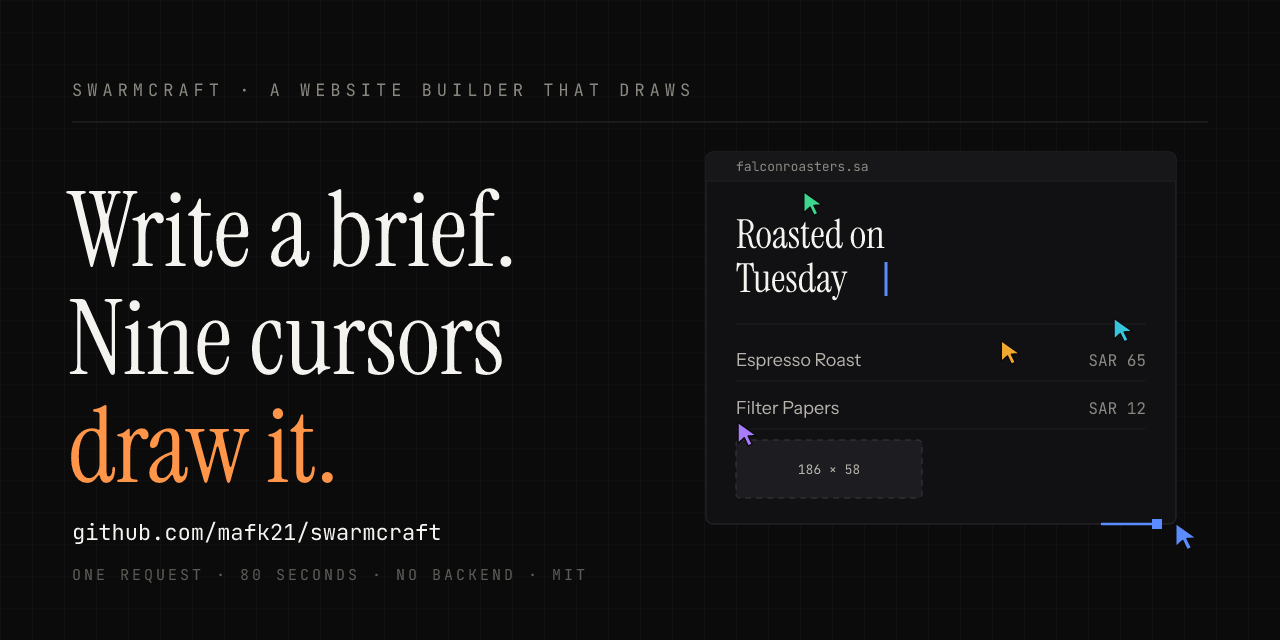
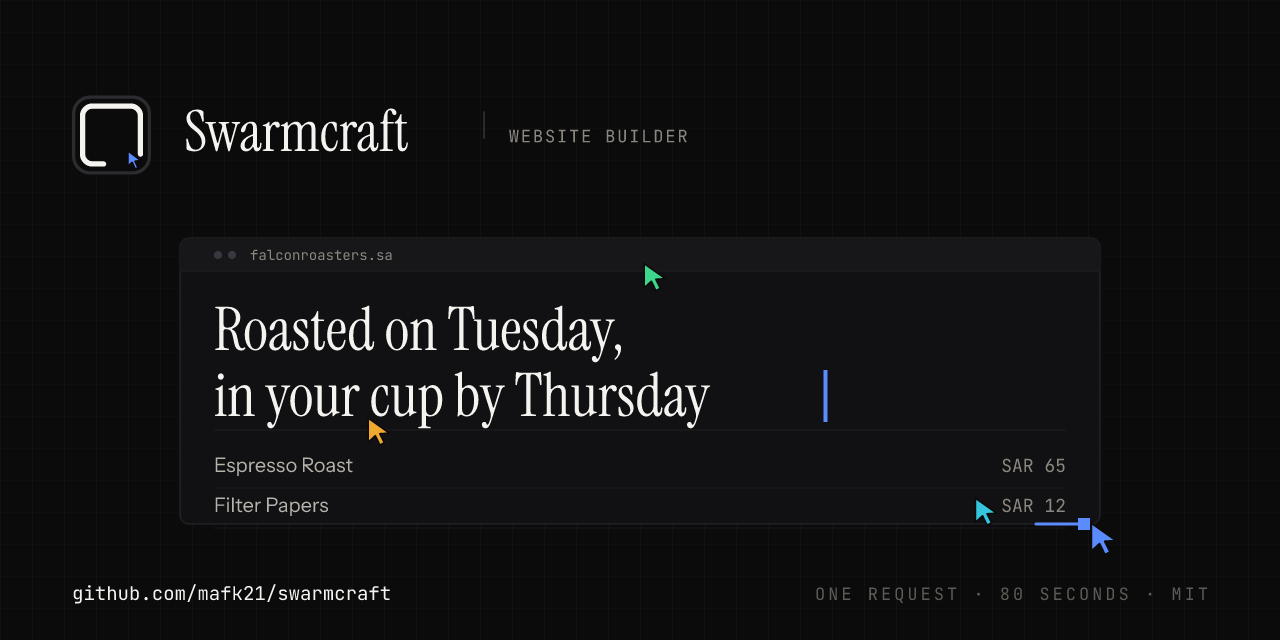
The link preview opens with the README's wordmark
It led with a 104pt claim, which is the right answer for a story card and the
wrong one for a link preview: the thing a stranger sees before clicking should
be the same header they will see after clicking.

So the preview is now the README's arrangement at 1280x640 — mark, name, rule,
"website builder" — generated from wordmarkSvg() rather than redrawn, and under
it the page the name claims: a hero half-typed with its caret, two priced rows,
and the sheet's own corner still being dragged by a cursor. Four cursors, not
nine: at this size nine is confetti.

The name, the rule and the words come from the same function, so the preview
cannot drift from the page it opens. A test asserts they match.

- card-test: header parts present, and the header is the wordmark output rather
  than a hand copy (mutation: redraw the header by hand → 2 failures).
- Both re-rendered from the same command, still 1280x640 and well under 1 MB.

diff --git a/docs/media/README.md b/docs/media/README.md
@@ -82,7 +82,12 @@ npm run card -- --check   # check fonts and names, render nothing
 | `docs/media/story-launch.png` | 1080×1920 | what the thing is: the claim, a drawing of a page mid-build, three proofs, the repo URL |
 | `docs/media/story-guarantee.png` | 1080×1920 | the rule: the model never writes CSS |
 | `docs/media/story-poster.png` | 1080×1920 | one enormous claim, one sheet of paper being dragged, no bullet points |
-| `docs/media/story-social.png` | **1280×640** | the link preview — what shows on Slack, X, WhatsApp, anywhere the repo URL is pasted |
+| `docs/media/story-social.png` | **1280×640** | the link preview — what shows on Slack, X, WhatsApp, anywhere the repo URL is pasted. Opens with the README's own wordmark, so the link and the page it opens look like one object |
+
+The header of the social preview is generated from `wordmarkSvg()` — the same
+function the README's wordmark comes from — not redrawn. A test asserts the two
+match, because a preview that disagrees with the page it opens is the kind of
+mismatch nobody notices until a stranger points it out.
 
 **The social preview is uploaded by hand and cannot be set by the API.** GitHub →
 Settings → Social preview → upload `docs/media/story-social.png`. It must stay under
